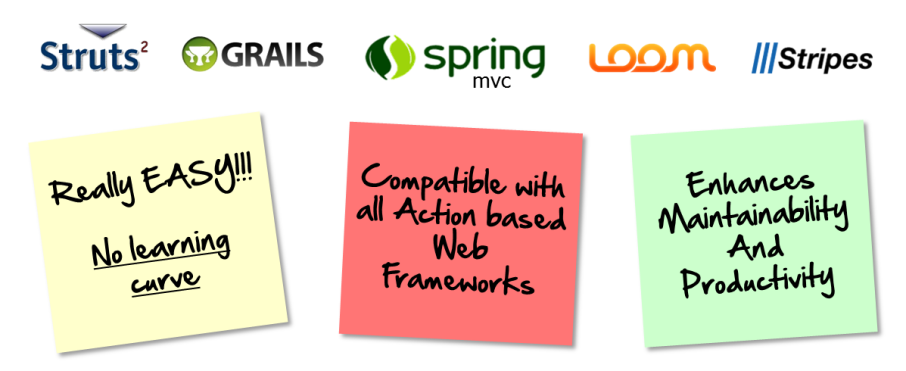
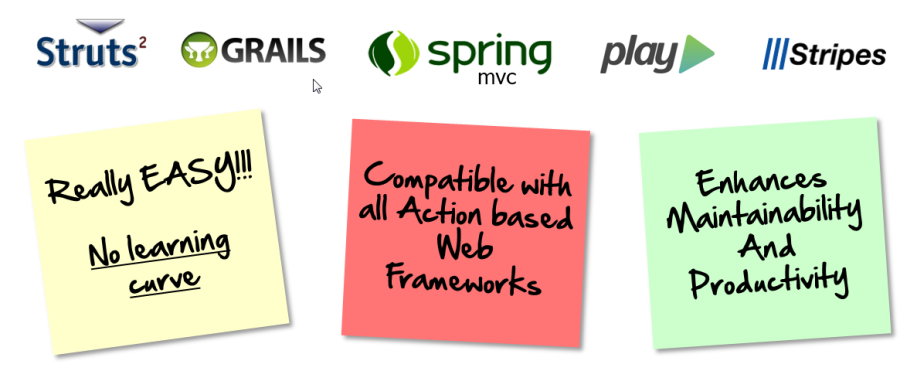
Added WebJars dependencies Replaced loom framework image and link for play framework Layout no points to Webjars web resources

diff --git a/ajaxanywhere-testapp/src/main/webapp/css/main.css b/ajaxanywhere-testapp/src/main/webapp/css/main.css
@@ -5,18 +5,11 @@ html, body {
     height: 100%;
 }
 
-#wrap {
-    min-height: 100%;
-    height: auto !important;
-    height: 100%;
-    margin: 0 auto -170px !important;
-}
-
 
 #main {
     padding-top: 60px;
     overflow: auto;
-    padding-bottom: 150px;
+    padding-bottom: 50px;
 }
 
 body#home a.home {
